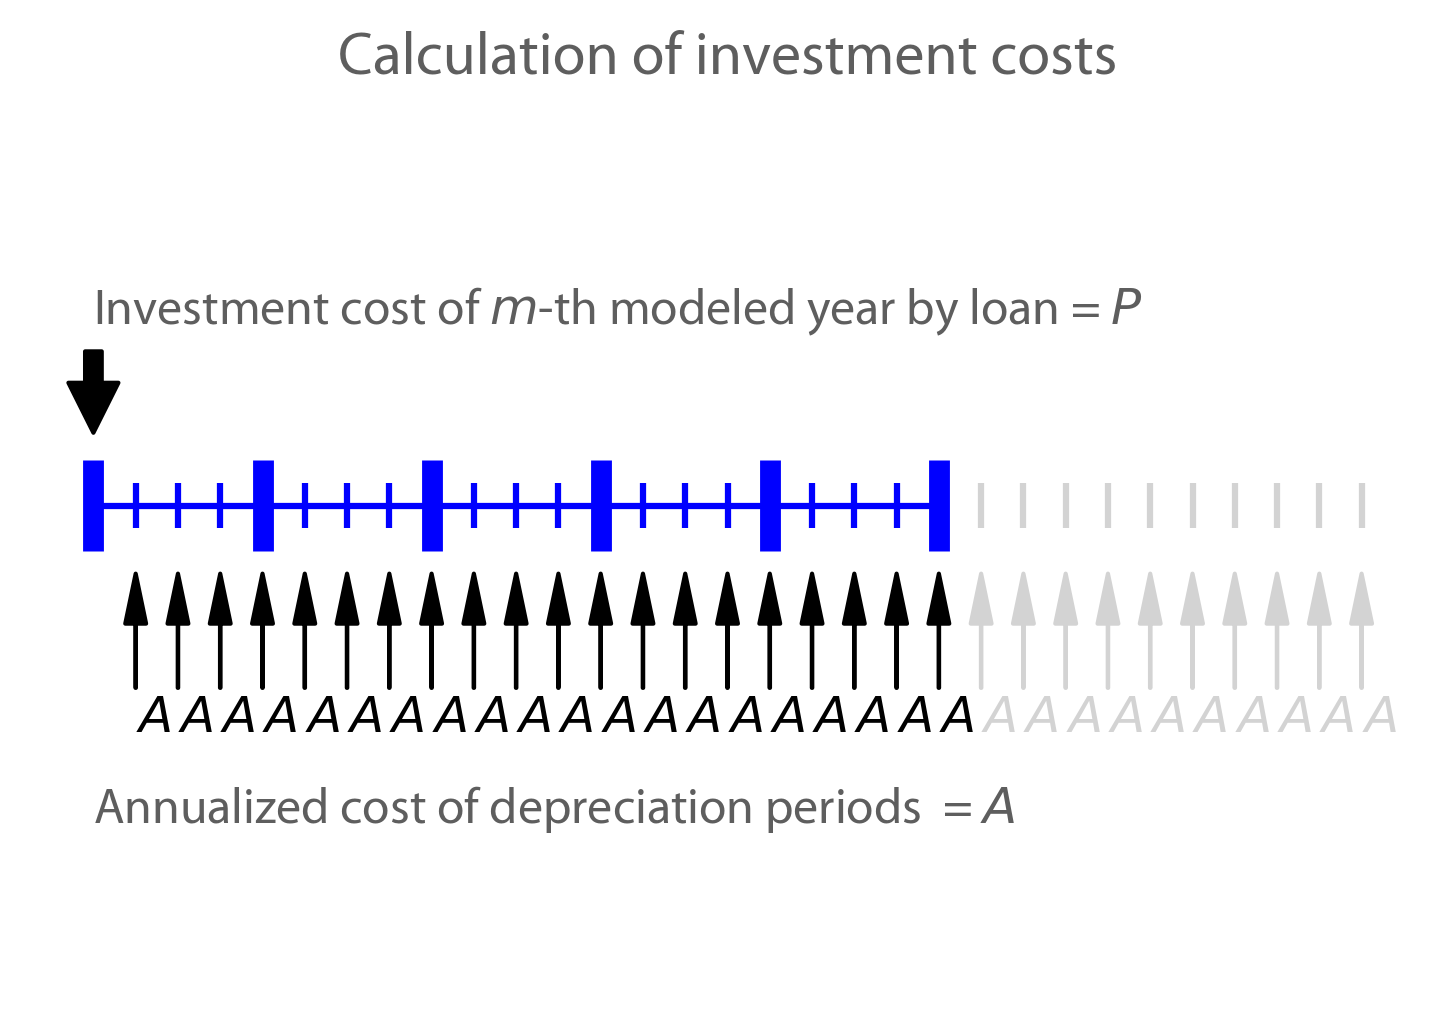
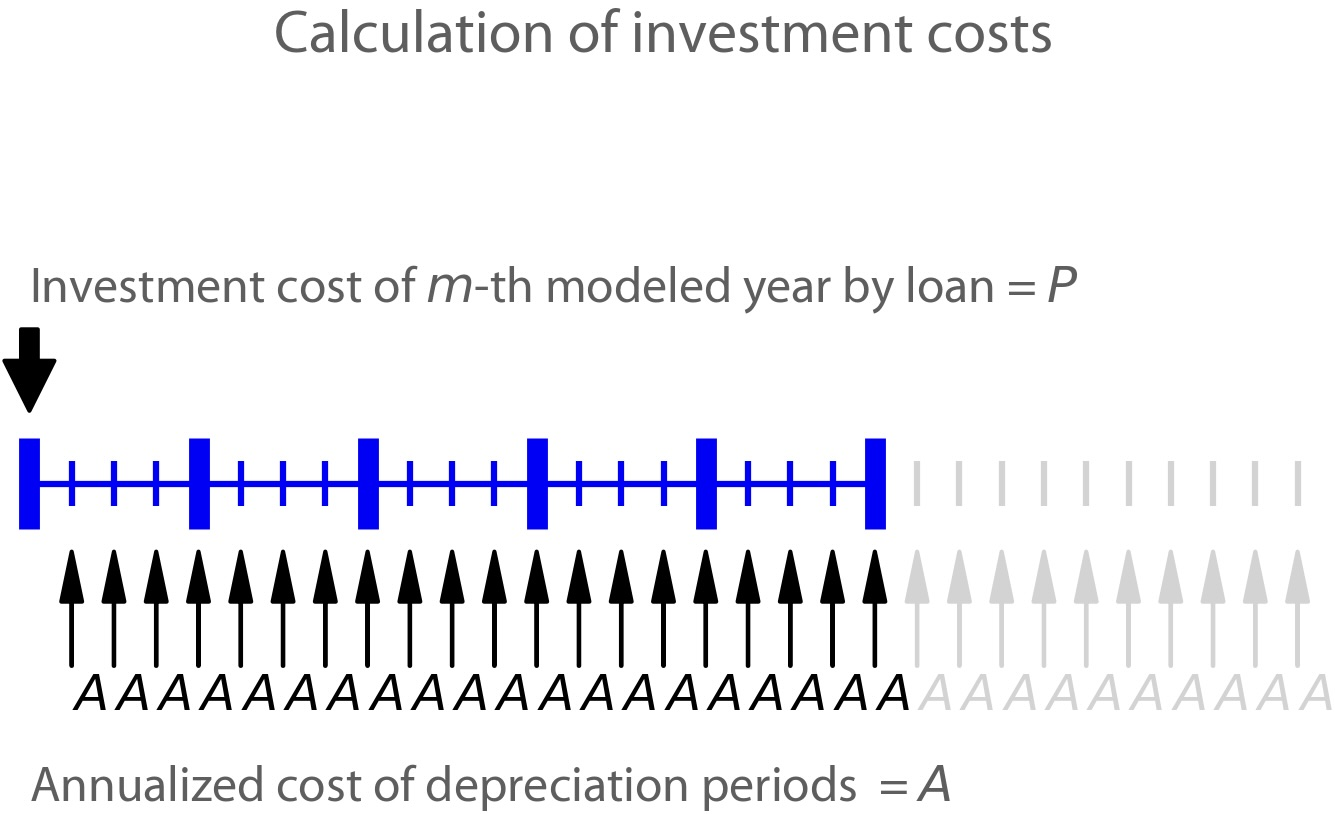
center and crop images

diff --git a/doc/source/Mathematical_notations.rst b/doc/source/Mathematical_notations.rst
@@ -479,6 +479,7 @@ We also assume that variable cost and fixed cost for non-modelled years are assu
 
 .. image:: ./_static/varcost.png
   :width: 400
+  :align: center
   :alt: Calculation of variable costs
 
 Given the following:
@@ -516,6 +517,7 @@ We can equate the fixed factor with the variable factor as follows:
 
 .. image:: ./_static/invcost.png
   :width: 400
+  :align: center
   :alt: Calculation of investment costs
 
 Given the following:

diff --git a/doc/source/Running_case.rst b/doc/source/Running_case.rst
@@ -20,6 +20,7 @@ The jurisdictional connections of the stations, reservoirs, and balancing author
 
 .. figure:: ./_static/typology.jpg
    :width: 50 %
+   :align: center
    :alt: typology
 
 For this tutorial, we assume that, apart from hydropower, no other existing power generation technologies or transmission lines are in place.
